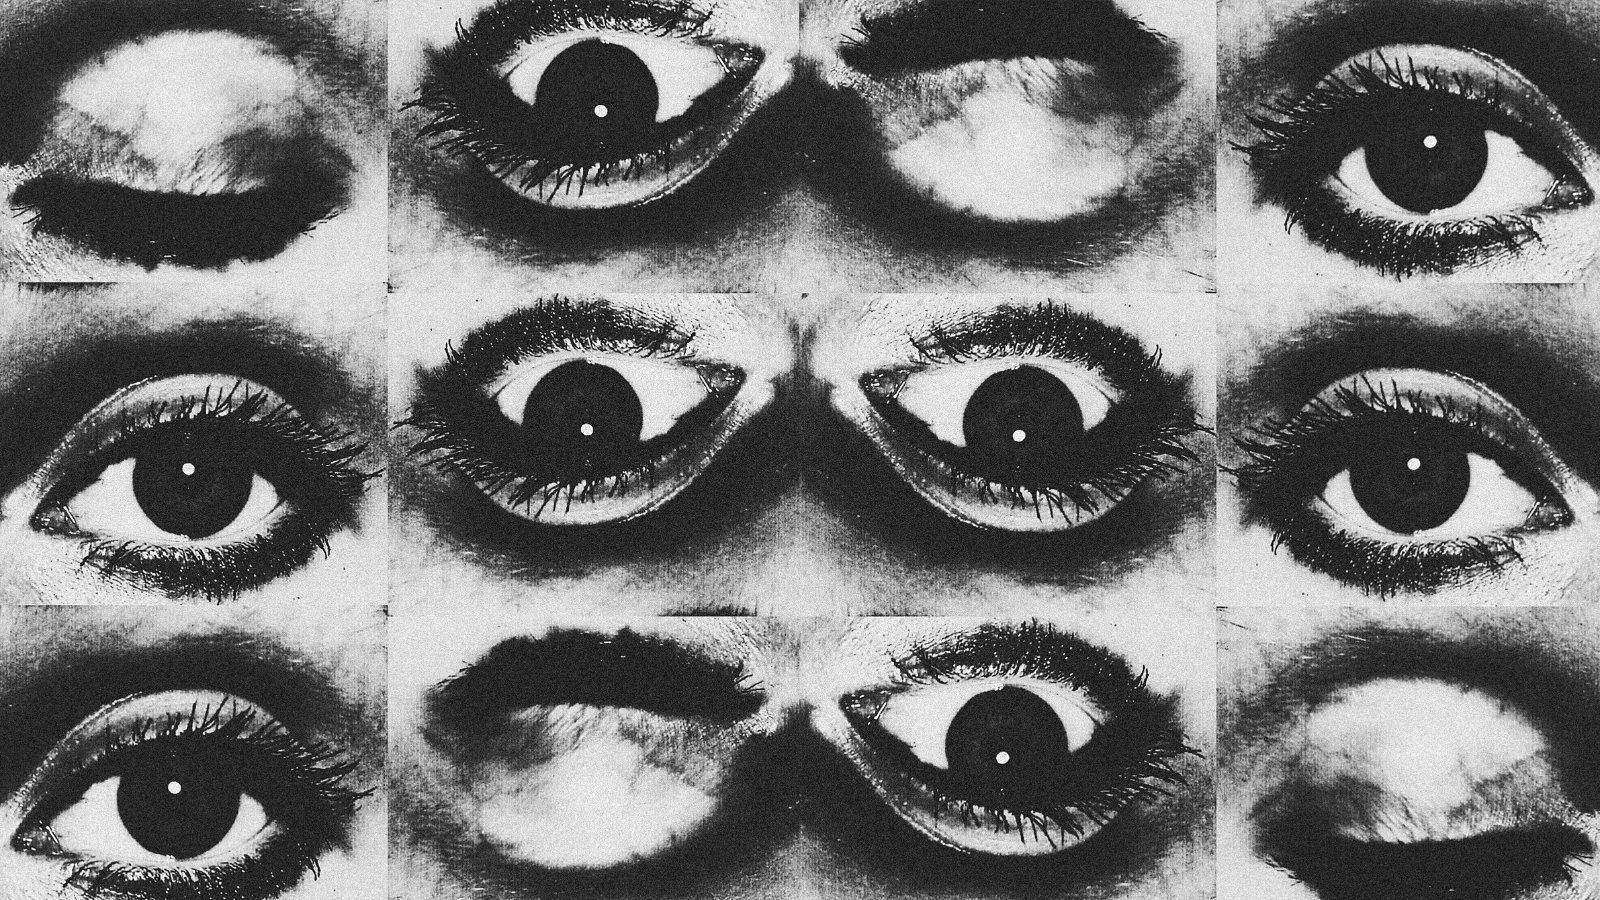
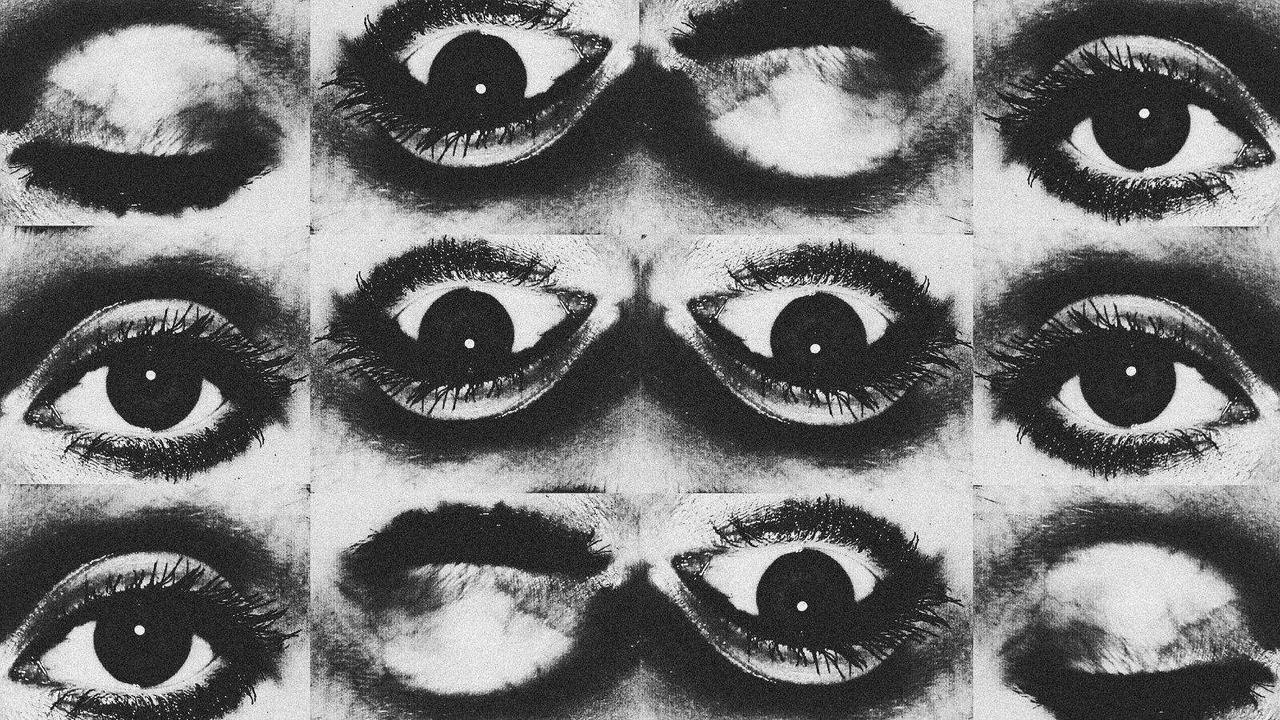
Shrink EMDR post image (was 500KB webp); drop ineffective http-www rule
Claude-Session: https://claude.ai/code/session_012BPB8MFxd9ryVrQAvfY615

diff --git a/blog/how-to-know-if-youre-ready-for-emdr/index.html b/blog/how-to-know-if-youre-ready-for-emdr/index.html
@@ -63,8 +63,8 @@
   <meta property="og:image" content="https://fullbloomcounseling.com/images/blog-emdr-readiness.jpg">
 <meta property="og:image:secure_url" content="https://fullbloomcounseling.com/images/blog-emdr-readiness.jpg">
 <meta property="og:image:type" content="image/jpeg">
-<meta property="og:image:width" content="1600">
-<meta property="og:image:height" content="900">
+<meta property="og:image:width" content="1280">
+<meta property="og:image:height" content="720">
   
   <meta property="og:locale" content="en_US">
   <meta name="twitter:card" content="summary_large_image">
@@ -267,7 +267,7 @@
 </div>
 <div style="background:var(--bark);padding:var(--nav-h) 0 0;">
   <div style="width:100%;height:440px;position:relative;overflow:hidden;">
-    <picture><source srcset="../../images/blog-emdr-readiness.webp" type="image/webp"><img src="../../images/blog-emdr-readiness.jpg" alt="Woman resting in flowers representing the power of pausing and self-care for healing in Denver Colorado" style="position:absolute;inset:0;width:100%;height:100%;object-fit:cover;opacity:.44;" loading="eager" fetchpriority="high" decoding="async" width="1600" height="900"></picture>
+    <picture><source srcset="../../images/blog-emdr-readiness.webp" type="image/webp"><img src="../../images/blog-emdr-readiness.jpg" alt="Woman resting in flowers representing the power of pausing and self-care for healing in Denver Colorado" style="position:absolute;inset:0;width:100%;height:100%;object-fit:cover;opacity:.44;" loading="eager" fetchpriority="high" decoding="async" width="1280" height="720"></picture>
     <div style="position:absolute;inset:0;background:linear-gradient(to top,rgba(24,18,10,.92) 0%,rgba(24,18,10,.15) 100%);" aria-hidden="true"></div>
     <div style="position:absolute;bottom:0;left:0;right:0;padding:44px 32px;max-width:var(--max-w);margin:0 auto;">
       <p style="font-size:.68rem;letter-spacing:.22em;text-transform:uppercase;color:var(--petal-lt);font-weight:600;margin-bottom:12px;">Trauma & EMDR</p>

diff --git a/blog/emdr-therapy-what-to-expect/index.html b/blog/emdr-therapy-what-to-expect/index.html
@@ -60,8 +60,8 @@
   <meta property="og:image" content="https://fullbloomcounseling.com/images/blog-emdr.jpg">
 <meta property="og:image:secure_url" content="https://fullbloomcounseling.com/images/blog-emdr.jpg">
 <meta property="og:image:type" content="image/jpeg">
-<meta property="og:image:width" content="1600">
-<meta property="og:image:height" content="900">
+<meta property="og:image:width" content="1280">
+<meta property="og:image:height" content="720">
   
   <meta name="twitter:card" content="summary_large_image">
   <meta name="twitter:title" content="What to Expect in Every EMDR Session | A Denver Guide">
@@ -260,7 +260,7 @@
 </div>
 <div style="background:var(--bark);padding:var(--nav-h) 0 0;">
   <div style="width:100%;height:440px;position:relative;overflow:hidden;">
-    <picture><source srcset="../../images/blog-emdr.webp" type="image/webp"><img src="../../images/blog-emdr.jpg" alt="Grid of eyes in black and white — EMDR therapy Denver what to expect" style="position:absolute;inset:0;width:100%;height:100%;object-fit:cover;opacity:.44;" loading="eager" fetchpriority="high" decoding="async" width="1600" height="900"></picture>
+    <picture><source srcset="../../images/blog-emdr.webp" type="image/webp"><img src="../../images/blog-emdr.jpg" alt="Grid of eyes in black and white — EMDR therapy Denver what to expect" style="position:absolute;inset:0;width:100%;height:100%;object-fit:cover;opacity:.44;" loading="eager" fetchpriority="high" decoding="async" width="1280" height="720"></picture>
     <div style="position:absolute;inset:0;background:linear-gradient(to top,rgba(24,18,10,.92) 0%,rgba(24,18,10,.15) 100%);" aria-hidden="true"></div>
     <div style="position:absolute;bottom:0;left:0;right:0;padding:44px 32px;max-width:var(--max-w);margin:0 auto;">
       <p style="font-size:.68rem;letter-spacing:.22em;text-transform:uppercase;color:var(--petal-lt);font-weight:600;margin-bottom:12px;">Trauma &amp; Healing</p>

diff --git a/blog/index.html b/blog/index.html
@@ -507,7 +507,7 @@
       </div>
       <div class="blog-card fade-in" data-date="2026-05-01">
         <a href="../blog/how-to-know-if-youre-ready-for-emdr/" class="blog-card-img-link">
-          <div class="blog-card-img"><picture><source srcset="../images/blog-emdr-readiness.webp" type="image/webp"><img src="../images/blog-emdr-readiness.jpg" alt="Brain and puzzle pieces — EMDR therapy readiness Denver" loading="lazy" decoding="async" width="1600" height="900"></picture></div>
+          <div class="blog-card-img"><picture><source srcset="../images/blog-emdr-readiness.webp" type="image/webp"><img src="../images/blog-emdr-readiness.jpg" alt="Brain and puzzle pieces — EMDR therapy readiness Denver" loading="lazy" decoding="async" width="1280" height="720"></picture></div>
         </a>
         <div class="blog-card-body">
           <div class="blog-card-meta">
@@ -897,7 +897,7 @@
       </div>
       <div class="blog-card fade-in" data-date="2024-10-15">
         <a href="../blog/emdr-therapy-what-to-expect/" class="blog-card-img-link">
-          <div class="blog-card-img"><picture><source srcset="../images/blog-emdr.webp" type="image/webp"><img src="../images/blog-emdr.jpg" alt="Grid of black and white eyes — EMDR therapy Denver" loading="lazy" decoding="async" width="1600" height="900"></picture></div>
+          <div class="blog-card-img"><picture><source srcset="../images/blog-emdr.webp" type="image/webp"><img src="../images/blog-emdr.jpg" alt="Grid of black and white eyes — EMDR therapy Denver" loading="lazy" decoding="async" width="1280" height="720"></picture></div>
         </a>
         <div class="blog-card-body">
           <div class="blog-card-meta">
